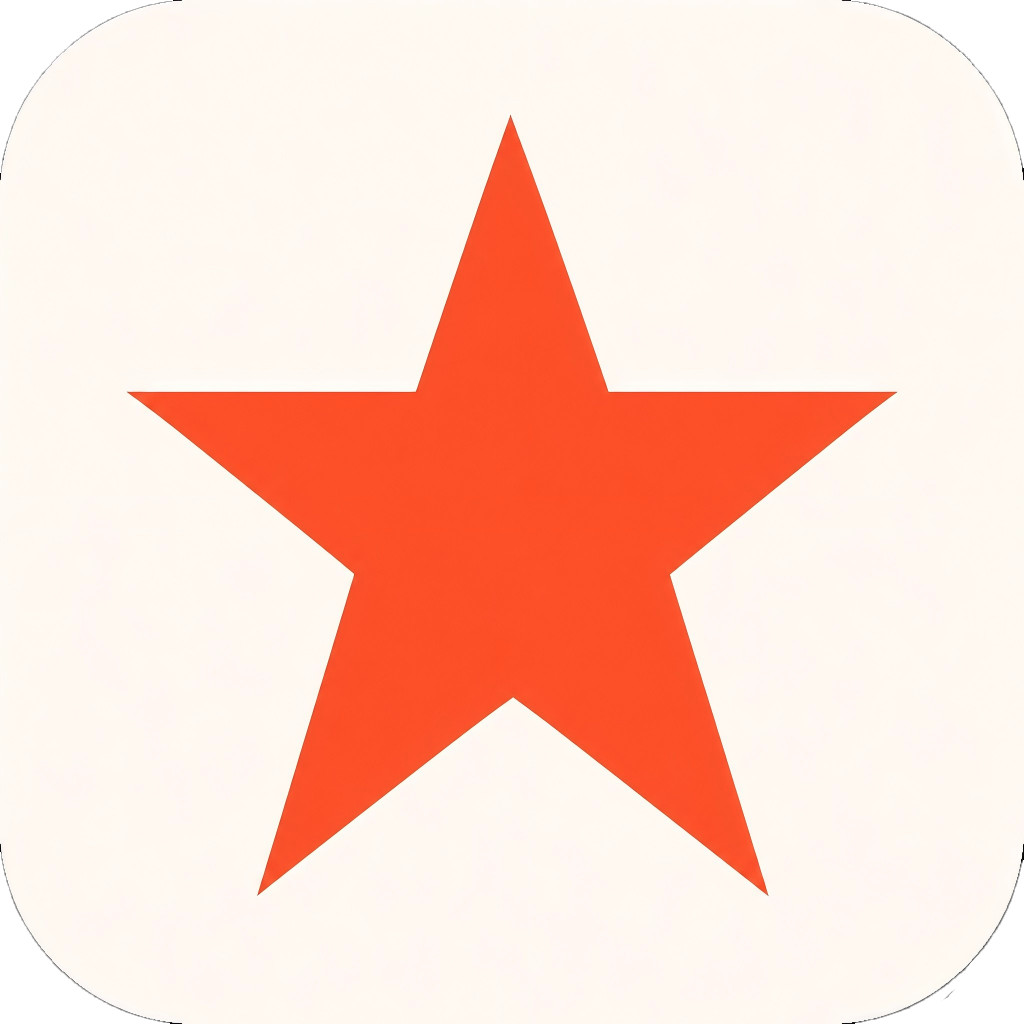
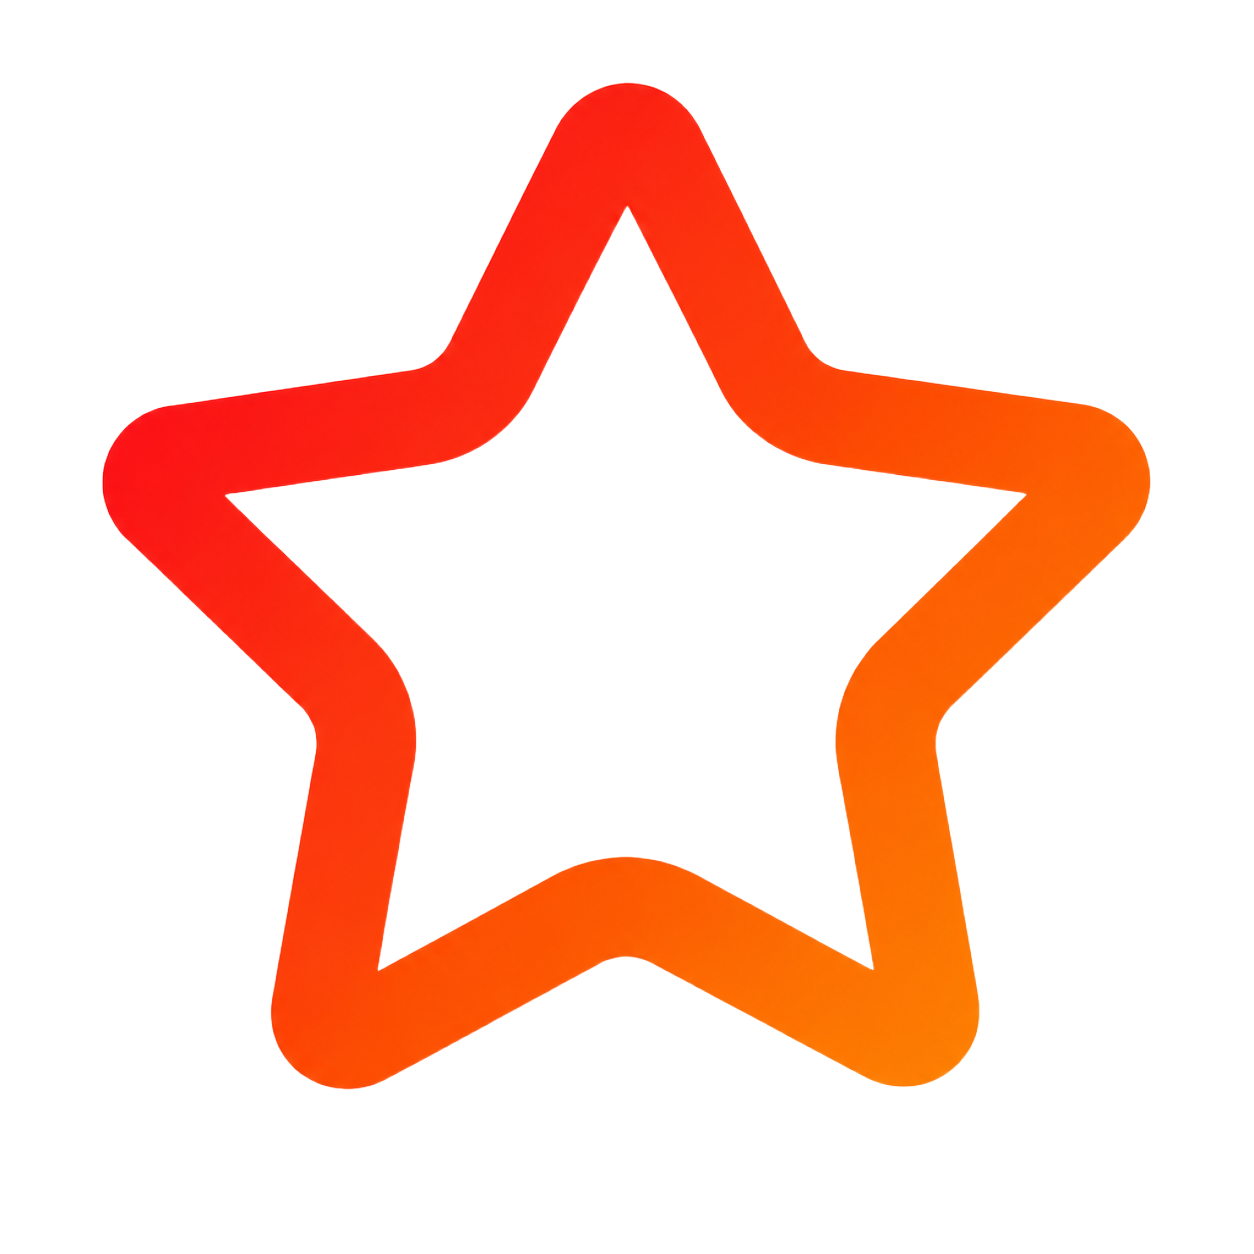
feat: 更新品牌标志，替换为新图标并移除旧的星形图标

diff --git a/src/renderer/src/components/BrandLogo.tsx b/src/renderer/src/components/BrandLogo.tsx
@@ -1,4 +1,4 @@
-import brandStarUrl from '@/assets/brand/dreamagent-star.png'
+import brandStarUrl from '@/assets/brand/dreamagent.png'
 import { cn } from '@/lib/utils'
 
 interface BrandStarProps {
@@ -28,9 +28,6 @@ export function BrandLogo({ className }: { className?: string }): React.JSX.Elem
       <BrandStar className="size-4" decorative />
       <div className="min-w-0 leading-none">
         <div className="truncate text-base font-semibold text-foreground">造梦师</div>
-        <div className="mt-1 truncate text-[10px] font-medium uppercase text-muted-foreground">
-          Dream Agent
-        </div>
       </div>
     </div>
   )
